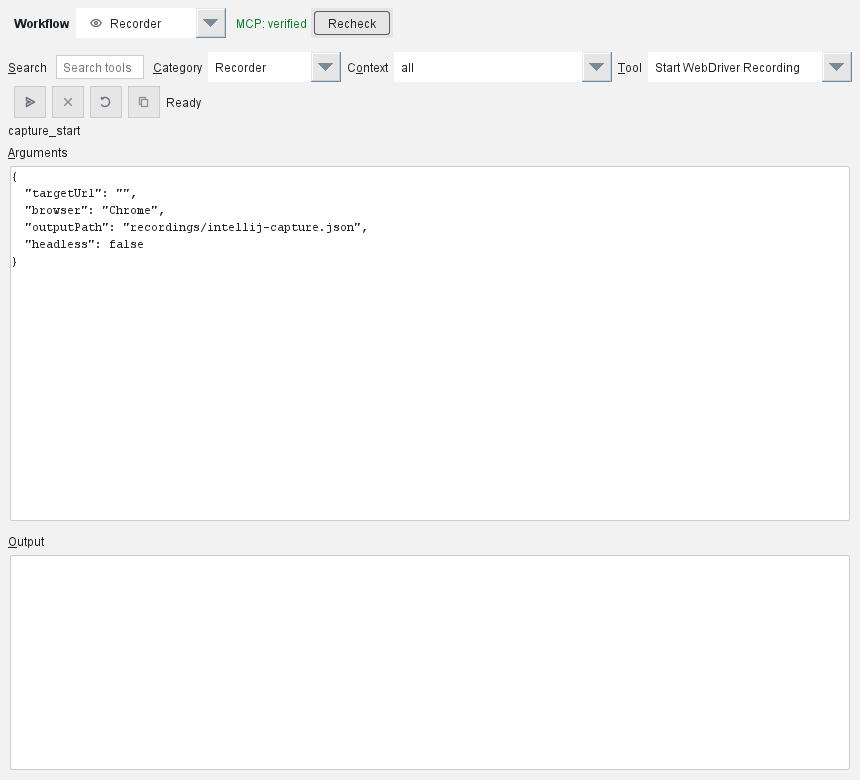
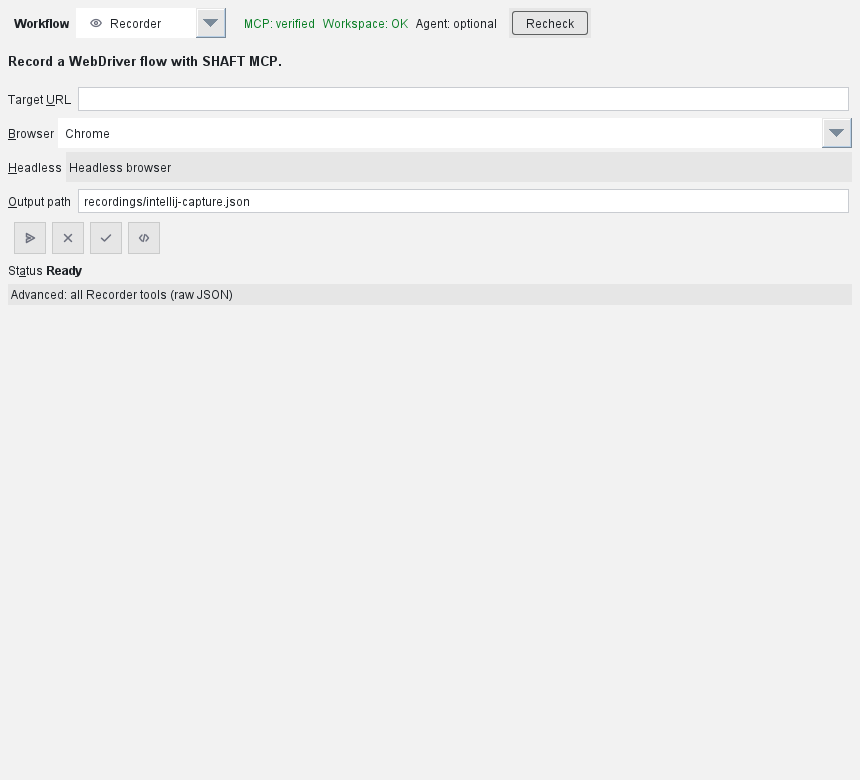
docs: refresh feature catalog for Settings/Recorder curation and locator policy
Claude-Session: https://claude.ai/code/session_01RuxETyrUcsemB2kJfSgzZb

diff --git a/modular-era-feature-catalog.md b/modular-era-feature-catalog.md
@@ -228,6 +228,8 @@ Every screenshot in this catalog is real repository evidence under `shaft-engine
 | IntelliJ Phase 4/5 hardening for issues #3634-#3642 | Success status color now passes WCAG contrast in dark themes; the Pin Response Fields dialog is a proper modal `DialogWrapper`; the selected workflow view and feature-panel split position persist across restarts; day-to-day action buttons carry per-action notification titles instead of a generic "SHAFT" banner; the API recording session panel (the last panel with visible-text buttons, now that every other one is icon-only) gets Alt-reachable mnemonics for Stop/Pin Fields/Generate/Copy CA Certificate; Guided's recorded-step list gains Delete/Move Up/Move Down for Playwright and Mobile recordings (shown below); the SHAFT Tests tab gains double-click Run and Ctrl+double-click Navigate on any row; watch mode now correlates a saved file against the last run's target class before replaying, offering a "Run `<Class>`" action on a mismatch instead of silently rerunning a stale test; and Doctor/Healer evidence screenshots render inline in the assistant transcript instead of requiring a separate file open. | `intellij-plugin-guided.png` |
 | IntelliJ per-run execution overrides for issue #3659 | Adds a `RunConfigurationExtension`-backed "SHAFT" tab to IntelliJ's own TestNG/JUnit run-configuration editor, so a single run configuration can override `targetBrowserName`/`headlessExecution`/extra `-D` args without editing `custom.properties`; state round-trips through the run configuration's own saved XML and survives "Copy Configuration". First step of the IntelliJ plugin UX program tracked by issue #3666. | `intellij-plugin-run-config-shaft-tab.png` |
 | IntelliJ SHAFT Tests discovery tree for issue #3663 | Replaces the flat, run-history-only "SHAFT Tests" list with a package/class/@Test-method tree built from real project-wide PSI discovery (`ShaftTestDiscovery`), so every SHAFT-runnable test is visible up front instead of only ones that happened to already run; recorded pass/fail/last-run-time layers on as a decoration where available. Second step of the IntelliJ plugin UX program (issue #3666), foundational for the live-status follow-up (#3664). | `intellij-plugin-shaft-tests.png`, `intellij-plugin-shaft-tests-dark.png` |
+| IntelliJ Settings/Recorder curation for issue #3665, setup wizard Connect agent | A "Test Execution" Settings section reads/writes `custom.properties` directly (line-based, never destroys comments/formatting); the Recorder tab gets a curated WebDriver Quick Start with the raw-JSON tool catalog demoted to an Advanced fallback; the first-run setup wizard's Ready step gets a one-click `Connect agent` retry instead of a skip-only dead end. Fourth step of the IntelliJ plugin UX program (issue #3666). | `intellij-plugin-settings.png`, `intellij-plugin-settings-dark.png`, `intellij-plugin-recorder.png` |
+| MCP locator-generation policy | `capture_target_candidates`, `capture_pick_locator`, `test_plan_explore`, and the recording-to-code pipeline (`capture_code_blocks`/`capture_generate_replay`) no longer generate intent-based `SHAFT.GUI.Locator.clickableField`/`inputField` calls; role-based locators (`hasRole`) come first, the SHAFT XPath `LocatorBuilder` chain second, plain Selenium `By` only as a last resort. `capture_start`'s `targetUrl`/`browser`/`outputPath`/`sessionGoal` are now genuinely optional in its MCP schema (matching its own javadoc), fixing a validation error that blocked starting a goal-less recording. | -- |
 | IntelliJ Guided recorder browser picker for issue #3660 | Replaces the recorder's hardcoded `"Chrome"`/`"CHROME"` literals with a real Browser picker (Chrome/Edge, the only two values `capture_start` and `mobile_initialize_web_emulation` actually accept server-side); moves the Browser and Headless controls out from behind "Advanced options" onto the always-visible primary surface, mirroring Playwright's VS Code extension; and gives the existing team-policy headless lock (`.shaft/recorder-policy.json`) a visible "Locked by team policy" hint instead of a tooltip-only signal. Third step of the IntelliJ plugin UX program (issue #3666). | `intellij-plugin-guided.png` |
 | SikuliX desktop automation | Desktop image automation lives in `shaft-sikulix`, so projects opt into `com.sikulix:sikulixapi` only when they need image-based desktop flows. | `tools/modularization/consumer-fixtures/sikulix/pom.xml`, `tests/scripts/test_sikulix_module_boundary.py` |
 | Recorder-to-code workflow | Capture real user actions, preserve edited step intent and checkpoints, plan reuse with `shaft_coding_partner_plan`, then generate TestNG replay snippets, setup/assertion/control-flow review blocks, locator/action summaries, patch previews, backend comparisons, evidence manifests, and Page Object insertions. | `web-recorder.png`, `capture-catalog.png`, `intellij-plugin-guided.png` |
@@ -378,9 +380,10 @@ flowchart LR
 | --- | --- | --- |
 | Tool window | Right-side SHAFT assistant panel with dedicated workflow tabs for Assistant, Guided, Recorder, Inspector, Triage, Evidence Tools, Projects, and Advanced Tools. | `Tools -> SHAFT -> Open SHAFT` |
 | First-run setup | If a tested MCP command has passed setup, the tool window opens the Assistant directly. Otherwise, setup opens with `Connect SHAFT Assistant`, defaults to Codex CLI, and shows a simple stepper: `1 Pick agent`, `2 Copy command`, `3 Run in terminal`, `4 Check setup`, then `Ready`. Users never see or paste the managed stdio command; `Check setup` discovers it from the installer output paths, verifies the selected local agent, and reveals `Start chatting` on success. Retry actions stay enabled after failures, with categorized diagnostics that avoid exposing the managed command. | `Tools -> SHAFT -> Open SHAFT` |
-| Settings and providers | Retest MCP, change Local/Cloud routing, select the cloud provider/model, and store or clear OpenAI, Anthropic, Gemini, and GitHub keys. Only the selected cloud provider key is passed to MCP. | `Settings -> SHAFT` |
+| Settings and providers | Retest MCP, change Local/Cloud routing, select the cloud provider/model, store or clear OpenAI, Anthropic, Gemini, and GitHub keys, and opt in to a project-wide Test Execution override (browser/headless) written to `custom.properties`. Only the selected cloud provider key is passed to MCP. | `Settings -> SHAFT` |
+| First-run setup: Connect agent | Once SHAFT MCP verifies but the selected agent CLI's readiness check hasn't succeeded, a `Connect agent` button next to `Start without an agent` retries just the agent check from the Ready step -- no need to scroll back through earlier steps and rerun the whole probe. | `Tools -> SHAFT -> Open SHAFT` |
 | Guided workflows | Pick starter templates for browser capture to Page Objects, failed Allure analysis, Selenium-to-SHAFT conversion, confirmed new SHAFT projects, and locator inspection without editing JSON first; the recorder action now says `Review code` because it returns reviewed SHAFT code blocks. Browser (Chrome/Edge) and Headless are always-visible primary controls, not buried behind Advanced options, with a visible hint when a team `.shaft/recorder-policy.json` locks Headless. | `Guided` tab |
-| Recorder | Editable JSON templates for `capture_start`, target discovery, record-at-target patch preview, backend comparison, evidence packs, checkpoints, replay generation, Playwright replay, and mobile replay. | `Recorder` tab |
+| Recorder | A curated Quick Start (Target URL, Browser, Headless, Output path, Start/Stop/Check status/Review code) for WebDriver recording drives `capture_start`/`capture_stop`/`capture_status`/`capture_code_blocks` directly; every other Recorder tool (target discovery, record-at-target patch preview, backend comparison, evidence packs, checkpoints, replay generation, Playwright replay, mobile replay) stays one click away behind "Advanced: all Recorder tools (raw JSON)". | `Recorder` tab |
 | Project tools | Create a SHAFT project after confirmation, preview an upgrade, or apply an approved upgrade through MCP. | `Projects` tab |
 | Triage | Prepare failed Allure analysis, trace analysis, Doctor fix suggestions, Healer runs, and locator proposal requests. | `Triage` tab |
 | Evidence and healing | Run failed-test analysis, trace lookup, trace analysis, and healer templates from the IDE. | `Evidence Tools` tab |